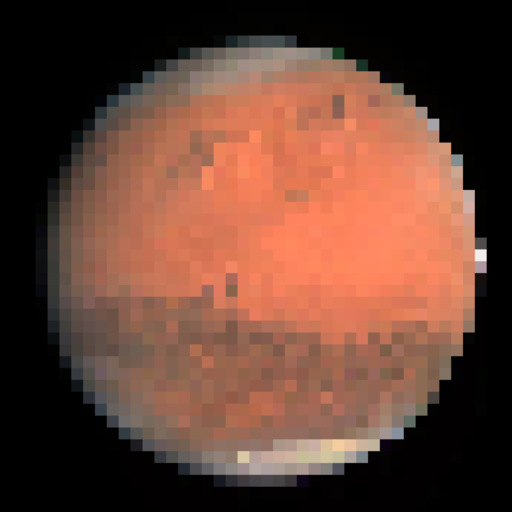
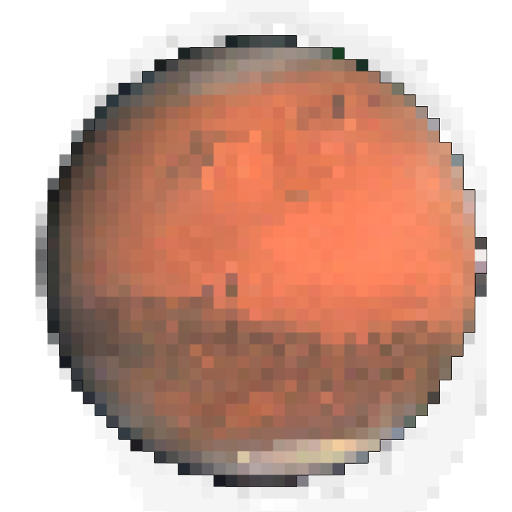
Imroved sprites

diff --git a/ProjectsSFML1_test/GameManager.cpp b/ProjectsSFML1_test/GameManager.cpp
@@ -23,12 +23,13 @@ GameManager::GameManager()
         if (!texture.loadFromFile(file)) {
             throw std::runtime_error("Failed to load " + file);
         }
+        texture.setSmooth(true);
         textures[file] = texture;
     }
 
     // Initialize planets
     for (int i = 0; i < 5; ++i) {
-        float radius = 100 + i * 85;
+        float radius = 150 + i * 125;
         float angle = i;
         float speed = 50.0f / radius;
         float size = 25.0f + i * 2.0f;
@@ -39,9 +40,31 @@ GameManager::GameManager()
     }
 
     // Add Sun
-    circles.emplace_back(0, 0, 0.0f, 35, "pixelarty/kerbol.png", 35 * 35, 0, 0);
+    circles.emplace_back(0, 0, 0.0f, 45, "pixelarty/kerbol.png", 35 * 35, 0, 0);
     circles.back().sprite.setTexture(textures["pixelarty/kerbol.png"]);
+    
+    // Load textures for rockets and flames
+    std::vector<std::string> rocketTextureFiles = { "pixelarty/rakieta.png", "pixelarty/engine_fire.png" };
+    for (const auto& file : rocketTextureFiles) {
+        sf::Texture texture;
+        if (!texture.loadFromFile(file)) {
+            throw std::runtime_error("Failed to load " + file);
+        }
+        rocketTextures[file] = texture;
+    }
 
+    // Load textures for payloads
+    std::vector<std::string> payloadTextureFiles = { "pixelarty/apolloCarThing.png", "pixelarty/elonRocket.png",
+    "pixelarty/rover.png", "pixelarty/satelite.png", "pixelarty/spaceStation.png" ,"pixelarty/sputnik.png", 
+    "pixelarty/telescope.png", "pixelarty/stonk.png"};
+    for (const auto& file : payloadTextureFiles) {
+        sf::Texture texture;
+        if (!texture.loadFromFile(file)) {
+            throw std::runtime_error("Failed to load " + file);
+        }
+        payloadTextures[file] = texture;
+    }
+    
     // Load font
     if (!font.loadFromFile("arial.ttf")) {
         throw std::runtime_error("Failed to load font");
@@ -151,11 +174,11 @@ void GameManager::handleInput() {
 
                         // Create a default mission for the rocket
                         mission defaultMission(tracker.rockedID,
-                            payload(0, 1, sf::Image(), 0, 0, "Default Payload"),
+                            payload(0, 1, sf::Image(), 0, 0, "Default Payload", "pixelarty/stonk.png"),
                             0); // No destination set
 
                         // Spawn the rocket with the default mission
-                        rockets.emplace_back(spawnPosition.x, spawnPosition.y, 1.f, tracker.rockedID, linearVelocity, defaultMission);
+                        rockets.emplace_back(spawnPosition.x, spawnPosition.y, 1.f, tracker.rockedID, linearVelocity, defaultMission, rocketTextures["pixelarty/rakieta.png"], rocketTextures["pixelarty/engine_fire.png"]);
                         tracker.rockedID++; // Iterate ID
                         break;
                     }
@@ -191,6 +214,9 @@ void GameManager::handleInput() {
                             rocket.thrustMultiplier = (distance - controlMin)/controlMax;
                             rocket.thrustMultiplier = std::min(std::max(rocket.thrustMultiplier, 0.f), 1.f);
                             rocket.setTiltAngle(tracker.lineStart, lineEnd);
+                            rocket.rocketSprite.setRotation(rocket.tiltAngle * 180.0f / 3.14159 - 90.f);
+                            rocket.flameSprite.setRotation(rocket.tiltAngle * 180.0f / 3.14159 - 90.f);
+                            rocket.flameSprite.setPosition(rocket.position + sf::Vector2f(std::cos(rocket.tiltAngle), std::sin(rocket.tiltAngle)) * 10.f);
                         }
                     }
                 }
@@ -218,6 +244,10 @@ void GameManager::handleInput() {
             if (event.key.code == sf::Keyboard::H) {        // Toggle help UI visibility
                 std::cout << "Input: H" << std::endl;
                 tracker.uiHelpVisible = !tracker.uiHelpVisible;
+            }
+            if (event.key.code == sf::Keyboard::I) {        // Toggle help devinfo visibility
+                std::cout << "Input: I" << std::endl;
+                tracker.devinfo = !tracker.devinfo;
             }
         }
     }
@@ -349,13 +379,13 @@ void GameManager::renderGame() {
             tracker.rocketAlive = 1;
             tracker.destinationTracker = rocket.associatedMission.destination;
         }
-        rocket.draw(window);
+        rocket.draw(window, tracker.devinfo);
     }
 
     for (const auto& circle : circles) { // Draw planets and the sun
        if ((tracker.rocketAlive == 1) && (circle.id == tracker.destinationTracker)) {
            GraphicalEffects::drawDottedCircle(window, circle.position, circle.size + 20, 12.f, 3.f, sf::Color::Magenta); }
-        circle.draw(window);
+        circle.draw(window, tracker.devinfo);
     }
 
 
@@ -434,7 +464,7 @@ void GameManager::handleMissionStart(int missionIndex) {
 
     // Ensure mission is valid
     if (!selectedMission.missionPayload.name.empty()) {
-        rockets.emplace_back(spawnPosition.x, spawnPosition.y, 1.f + selectedMission.missionPayload.mass, tracker.rockedID++, linearVelocity, selectedMission);
+        rockets.emplace_back(spawnPosition.x, spawnPosition.y, 1.f + selectedMission.missionPayload.mass, tracker.rockedID++, linearVelocity, selectedMission, rocketTextures["pixelarty/rakieta.png"], rocketTextures["pixelarty/engine_fire.png"]);
     }
     else {
         std::cerr << "Mission payload is not valid!\n";
@@ -530,6 +560,7 @@ void GameManager::renderUI_Help() {
         "Press 'M' to toggle mission panel\n"
         "Press 'Space' to toggle pause\n"
         "Press 'Escape' to exit game\n"
+        "Press 'I' to toggle hitcircles\n"
         "Deliver rocket to assigned planet to recive funds\n"
         "Left click to select rocket to control\n"
         "Right click to control rocket\n"

diff --git a/ProjectsSFML1_test/GameObjects.cpp b/ProjectsSFML1_test/GameObjects.cpp
@@ -25,13 +25,16 @@ void MovingCircle::update(float deltaTime, const sf::Vector2f& center) {
 }
 
 // Draw the rocket to the window
-void MovingCircle::draw(sf::RenderWindow& window) const {
+void MovingCircle::draw(sf::RenderWindow& window, bool devinfo) const {
+    
+    window.draw(sprite); // Draw the sprite
+
     // Draw all buildings on the planet
     for (const auto& building : buildings) {
         building.draw(window);
     }
-    window.draw(sprite); // Draw the sprite
-    // window.draw(shape); // Optional: for debugging, draw the circle
+
+     if(devinfo) window.draw(shape); // Optional: for debugging, draw the circle
 }
 
 // Calculate G force from planet
@@ -97,17 +100,31 @@ bool MovingCircle::checkAndDestroyBuilding(float collisionAngle, float planetRad
 }
 
 
-Rocket::Rocket(float startX, float startY, float mass, unsigned int ID, sf::Vector2f initVelocity, const mission& associatedMission)
+Rocket::Rocket(float startX, float startY, float mass, unsigned int ID, sf::Vector2f initVelocity, const mission& associatedMission, const sf::Texture& rocketTexture, const sf::Texture& flameTexture)
     : position(startX, startY), velocity(initVelocity), acceleration(0.f, 0.f), tiltAngle(0.0f), mass(mass), ID(ID), thrustPower(10.f), thrustMultiplier(1.f), associatedMission(associatedMission) {
     shape.setRadius(5.f);
     shape.setFillColor(sf::Color::Blue);
     shape.setOrigin(5.f, 5.f); // Center the shape
     shape.setPosition(position);
 
-    // Flame graphics
-    flame.setRadius(2.5f);
-    flame.setFillColor(sf::Color::Red);
-    flame.setOrigin(flame.getRadius(), flame.getRadius());
+    // Initialize rocket sprite
+    rocketSprite.setTexture(rocketTexture);
+    rocketSprite.setOrigin(rocketTexture.getSize().x / 2, rocketTexture.getSize().y / 2);
+    rocketSprite.setScale(0.03f, 0.03f);
+
+    // Initialize flame sprite
+    flameSprite.setTexture(flameTexture);
+    flameSprite.setOrigin(flameTexture.getSize().x / 2, 0); // Align flame with rocket's bottom
+    flameSprite.setScale(0.02f, 0.02f);
+
+    // Update rocket sprite position and rotation
+    rocketSprite.setPosition(position);
+    rocketSprite.setRotation(tiltAngle * 180.0f / 3.14159 - 90.f);
+
+    // Update flame sprite position and rotation
+    flameSprite.setPosition(position);
+    flameSprite.setRotation(tiltAngle * 180.0f / 3.14159 - 90.f);
+
 }
 
 void Rocket::update(float deltaTime, const std::vector<sf::Vector2f>& forces) {
@@ -133,13 +150,15 @@ void Rocket::update(float deltaTime, const std::vector<sf::Vector2f>& forces) {
 
     // Update rocket's position
     shape.setPosition(position);
-    flame.setPosition(position + sf::Vector2f(std::cos(tiltAngle), std::sin(tiltAngle)) * 10.f);
+    rocketSprite.setPosition(position);
+    flameSprite.setPosition(position + sf::Vector2f(std::cos(tiltAngle), std::sin(tiltAngle)) * 10.f);
 }
 
 // Draw the rocket to the window
-void Rocket::draw(sf::RenderWindow& window) const {
-    window.draw(shape);
-    window.draw(flame);
+void Rocket::draw(sf::RenderWindow& window , bool devinfo) const {
+    window.draw(rocketSprite);
+    if(devinfo) window.draw(shape);
+    window.draw(flameSprite);
 }
 void Rocket::setTiltAngle(const sf::Vector2f& start, const sf::Vector2f& target) {
     sf::Vector2f direction = target - start;

diff --git a/ProjectsSFML1_test/GameObjects.h b/ProjectsSFML1_test/GameObjects.h
@@ -45,7 +45,7 @@ public:
 
     MovingCircle(float radius, float angle, float speed, float size, const std::string& textureFile, float mass, int id, bool walkable);  //Constructor
     void update(float deltaTime, const sf::Vector2f& center); // Updates planets position based on time and point its orbiting
-    void draw(sf::RenderWindow& window) const;  // Draws planets graphic
+    void draw(sf::RenderWindow& window, bool devinfo) const;  // Draws planets graphic
     sf::Vector2f calculateGravityForce(const sf::Vector2f& point) const; // Calculate planets gravity on specified point 
     sf::Vector2f getLinearVelocity(sf::Vector2f center);    // Converts angular velocity to linear
     bool isClicked(sf::Vector2f mousePosition); // Determines if planet got clicked
@@ -58,20 +58,22 @@ public:
 class Rocket {
 public:
     sf::CircleShape shape;  // rockets current graphic
+    sf::Sprite rocketSprite;    // Sprite for roket
+    sf::Sprite flameSprite;     // Sprite for exhaust fire
     sf::Vector2f position;  // Position
     sf::Vector2f velocity;  // Velocity
     sf::Vector2f acceleration;  // Last change in velocity(for verlet)
     float tiltAngle;    // wich way the rocked is turned(Radians)
     float mass;     // rockets mass
-    sf::CircleShape flame;  // grapphic for exhaust flame
+    //sf::CircleShape flame;  // grapphic for exhaust flame
     float thrustPower; // Thrust
     float thrustMultiplier; // Thrust
     unsigned int ID;   // Rockets ID
     mission associatedMission;
 
-    Rocket(float startX, float startY, float mass, unsigned int ID, sf::Vector2f initVelocity, const mission& mission);
+    Rocket(float startX, float startY, float mass, unsigned int ID, sf::Vector2f initVelocity, const mission& mission, const sf::Texture& rocketTexture, const sf::Texture& flameTexture);
     void update(float deltaTime, const std::vector<sf::Vector2f>& forces);  // Updates position and velocity
-    void draw(sf::RenderWindow& window) const;              // Drawing both rocked and flame
+    void draw(sf::RenderWindow& window, bool devinfo) const;              // Drawing both rocked and flame
     void setTiltAngle(const sf::Vector2f& start, const sf::Vector2f& target);   // For rotating the rocked
     bool checkCollision(const sf::CircleShape& circle);     // For colisions with planets
 };

diff --git a/ProjectsSFML1_test/MissionManager.cpp b/ProjectsSFML1_test/MissionManager.cpp
@@ -75,13 +75,13 @@ mission generateRandomMission(int uniqueId) {
     loadImages();
     // Define the payloads
     std::cout << "Func: generateRandomMission" << std::endl;
-    payload carP(0, 1, car, 1000, 2000, "Moon vehicle");
-    payload elonP(1, 1, elon, 1000, 2000, "Spaceship");
-    payload roverP(2, 1, rover, 1000, 2000, "Rover");
-    payload sateliteP(3, 1, satelite, 1000, 2000, "Satelite");
-    payload stationP(4, 1, station, 1000, 2000, "Space station");
-    payload sputnikP(5, 1, sputnik, 1000, 2000, "Sputnik");
-    payload telescopeP(6, 1, telescope, 1000, 2000, "Telescope");//TOOD: update masses and money for balance
+    payload carP(0, 1, car, 1000, 2000, "Moon vehicle", "pixelarty/apolloCarThing.png");
+    payload elonP(1, 1, elon, 1000, 2000, "Spaceship", "pixelarty/elonRocket.png");
+    payload roverP(2, 1, rover, 1000, 2000, "Rover", "pixelarty/rover.png");
+    payload sateliteP(3, 1, satelite, 1000, 2000, "Satelite", "pixelarty/satelite.png");
+    payload stationP(4, 1, station, 1000, 2000, "Space station", "pixelarty/spaceStation.png");
+    payload sputnikP(5, 1, sputnik, 1000, 2000, "Sputnik", "pixelarty/sputnik.png");
+    payload telescopeP(6, 1, telescope, 1000, 2000, "Telescope", "pixelarty/telescope.png");//TOOD: update masses and money for balance
 
     // Store payloads in a vector
     std::vector<payload> payloads = { carP, elonP, roverP, sateliteP, stationP, sputnikP, telescopeP };

diff --git a/ProjectsSFML1_test/GameManager.h b/ProjectsSFML1_test/GameManager.h
@@ -11,6 +11,7 @@ public:
     bool pause = 1;         // Pause
     bool dragging = 0;      // Tells if a if control line is being dragged
     bool planetClick = 0;   // Checks if a planet got clicked
+    bool devinfo = 0;       // Checks if devinfo(hitcircles should be vissible)
     bool uiVisible = false; // UI visibility toggle
     bool uiHelpVisible = 1; // HelpUI visibility toggle
     sf::Vector2f lineStart = sf::Vector2f(0.f, 0.f);    // Start of rocket control line()
@@ -56,6 +57,11 @@ private:
     std::vector<std::unique_ptr<sf::Text>> missionTexts; // Dynamic allocation
     std::vector<std::unique_ptr<sf::RectangleShape>> startButtons;
     std::vector<std::unique_ptr<sf::Sprite>> payloadIcons; // Add icons for mission payloads
+
+    std::map<std::string, sf::Texture> rocketTextures; // Shared textures for rockets and flames
+    std::map<std::string, sf::Texture> payloadTextures; // Shared textures for payloads
+
+    
 
     void handleInput();         // Keyboard and mouse input
     void updateGame(float deltaTime);   // Updades everything

diff --git a/ProjectsSFML1_test/MissionManager.h b/ProjectsSFML1_test/MissionManager.h
@@ -11,20 +11,21 @@ public:
     int cost;
     int reward;
     std::string name;
+    std::string textureLink;
 
     // Constructor
-    payload(int id, int mass, const sf::Image& icon, int cost, int reward, const std::string& name)
-        : id(id), mass(mass), icon(icon), cost(cost), reward(reward), name(name) {
+    payload(int id, int mass, const sf::Image& icon, int cost, int reward, const std::string& name, std::string textureLink)
+        : id(id), mass(mass), icon(icon), cost(cost), reward(reward), name(name), textureLink(textureLink) {
     }
 
     // Default constructor
-    payload() : id(0), mass(0), cost(0), reward(0), name("") {}
+    payload() : id(0), mass(0), cost(0), reward(0), name(""), textureLink("") {}
 };
 
 class mission {
 public:
     int id;
-    payload missionPayload; // Rename the member variable
+    payload missionPayload; // What is being caried
     int destination;
 
     // Constructor
